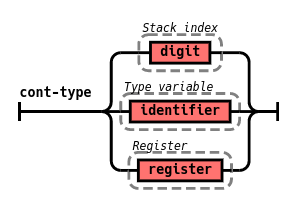
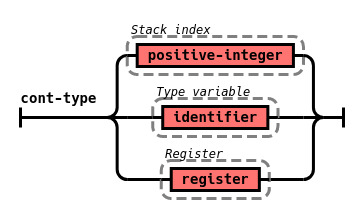
rework grammar of continuation types

Changed region(s): [[0.0304, 0.0874, 0.973, 0.932]]

diff --git a/railroad-diagrams.py b/railroad-diagrams.py
@@ -207,7 +207,7 @@ def cont_type():
 	inner = Choice(
 		1,
 		Group(
-			NonTerminal('digit'),
+			NonTerminal('positive-integer'),
 			'Stack index'
 		),
 		Group(
@@ -321,4 +321,4 @@ def call_instruction():
 
 	return mk_diagram('call-instruction', inner)
 
-call_instruction().writeSvg(sys.stdout.write)
+cont_type().writeSvg(sys.stdout.write)
